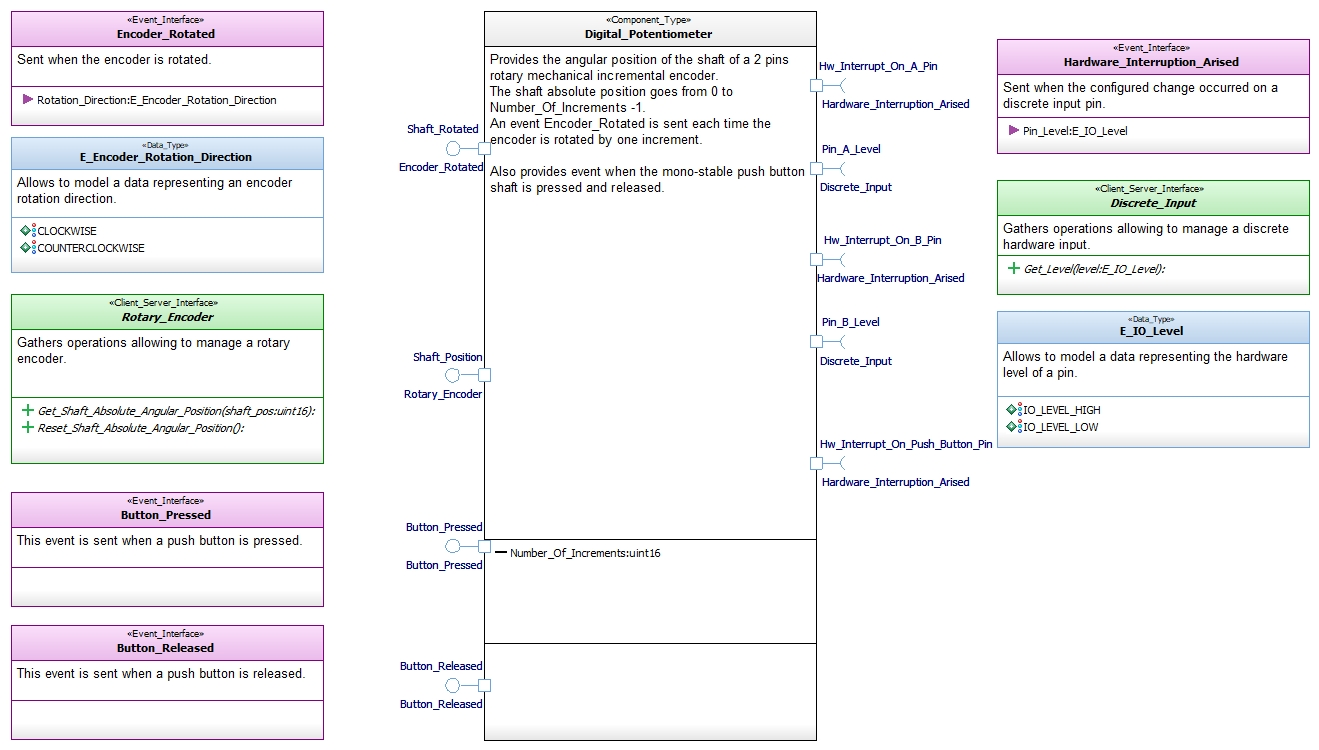
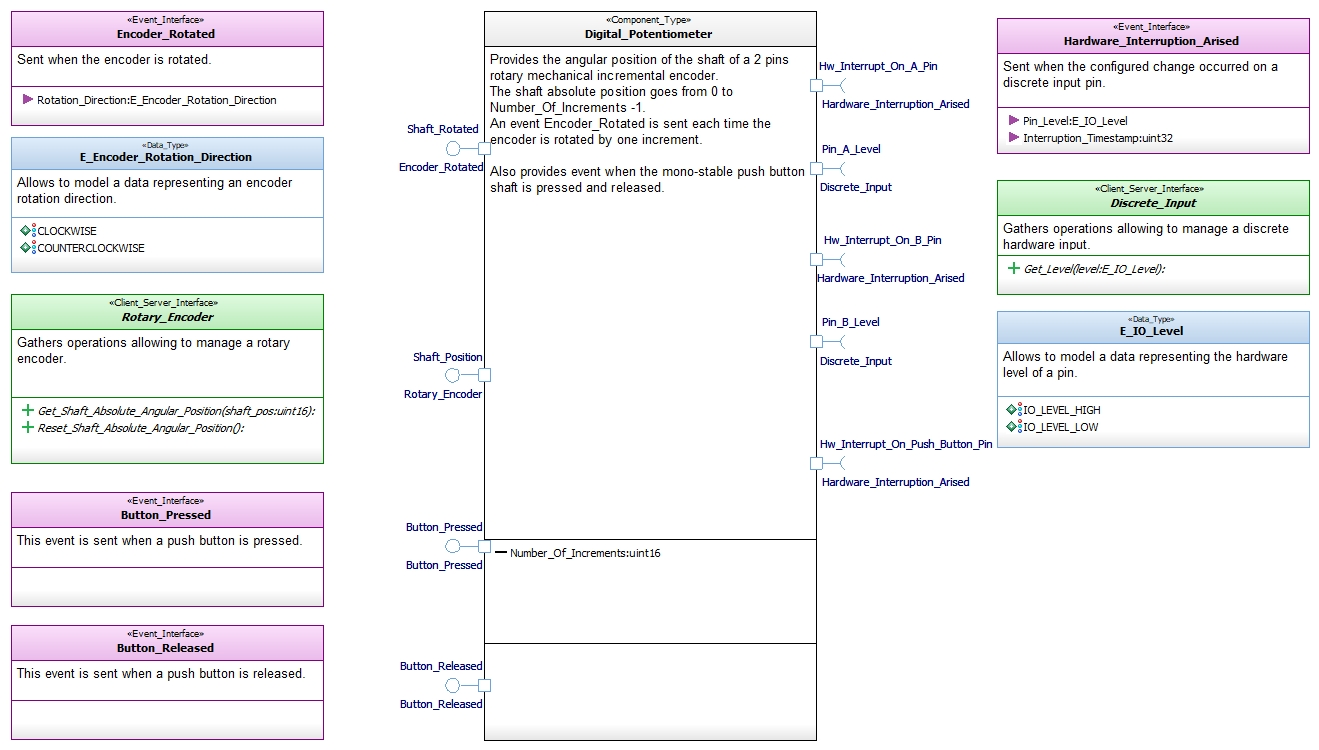
Take into account new definition of Hardware_Interruption_Arised event

Changed region(s): [[0.746, 0.0, 0.9947, 0.2147]]

diff --git a/src/Digital_Potentiometer.c b/src/Digital_Potentiometer.c
@@ -49,7 +49,8 @@ void DigitPot__Shaft_Position__Reset_Shaft_Absolute_Angular_Position(
 /*============================================================================*/
 void DigitPot__Hw_Interrupt_On_A_Pin( 
     const Digital_Potentiometer* Me,
-    E_IO_Level Pin_Level )
+    E_IO_Level Pin_Level,
+    uint32_t Interruption_Timestamp )
 {
     /* Get level of Pin B */
     E_IO_Level pin_B_level = IO_LEVEL_LOW;
@@ -61,7 +62,8 @@ void DigitPot__Hw_Interrupt_On_A_Pin(
 /*----------------------------------------------------------------------------*/    
 void DigitPot__Hw_Interrupt_On_B_Pin(
     const Digital_Potentiometer* Me,
-    E_IO_Level Pin_Level )
+    E_IO_Level Pin_Level,
+    uint32_t Interruption_Timestamp )
 {
     /* Get level of Pin A */
     E_IO_Level pin_A_level = IO_LEVEL_LOW;
@@ -73,7 +75,8 @@ void DigitPot__Hw_Interrupt_On_B_Pin(
 /*----------------------------------------------------------------------------*/
 void DigitPot__Hw_Interrupt_On_Push_Button_Pin(
     const Digital_Potentiometer* Me, 
-    E_IO_Level Pin_Level )
+    E_IO_Level Pin_Level,
+    uint32_t Interruption_Timestamp )
 {
     /* Test level of switch pin */
     if( IO_LEVEL_LOW==Pin_Level )

diff --git a/src/Digital_Potentiometer.h b/src/Digital_Potentiometer.h
@@ -71,12 +71,15 @@ void DigitPot__Shaft_Position__Reset_Shaft_Absolute_Angular_Position(
 /*============================================================================*/
 void DigitPot__Hw_Interrupt_On_A_Pin( 
     const Digital_Potentiometer* Me,
-    E_IO_Level Pin_Level );
+    E_IO_Level Pin_Level,
+    uint32_t Interruption_Timestamp );
 void DigitPot__Hw_Interrupt_On_B_Pin(
     const Digital_Potentiometer* Me,
-    E_IO_Level Pin_Level );
+    E_IO_Level Pin_Level,
+    uint32_t Interruption_Timestamp );
 void DigitPot__Hw_Interrupt_On_Push_Button_Pin(
     const Digital_Potentiometer* Me, 
-    E_IO_Level Pin_Level );
+    E_IO_Level Pin_Level,
+    uint32_t Interruption_Timestamp );
 
 #endif
